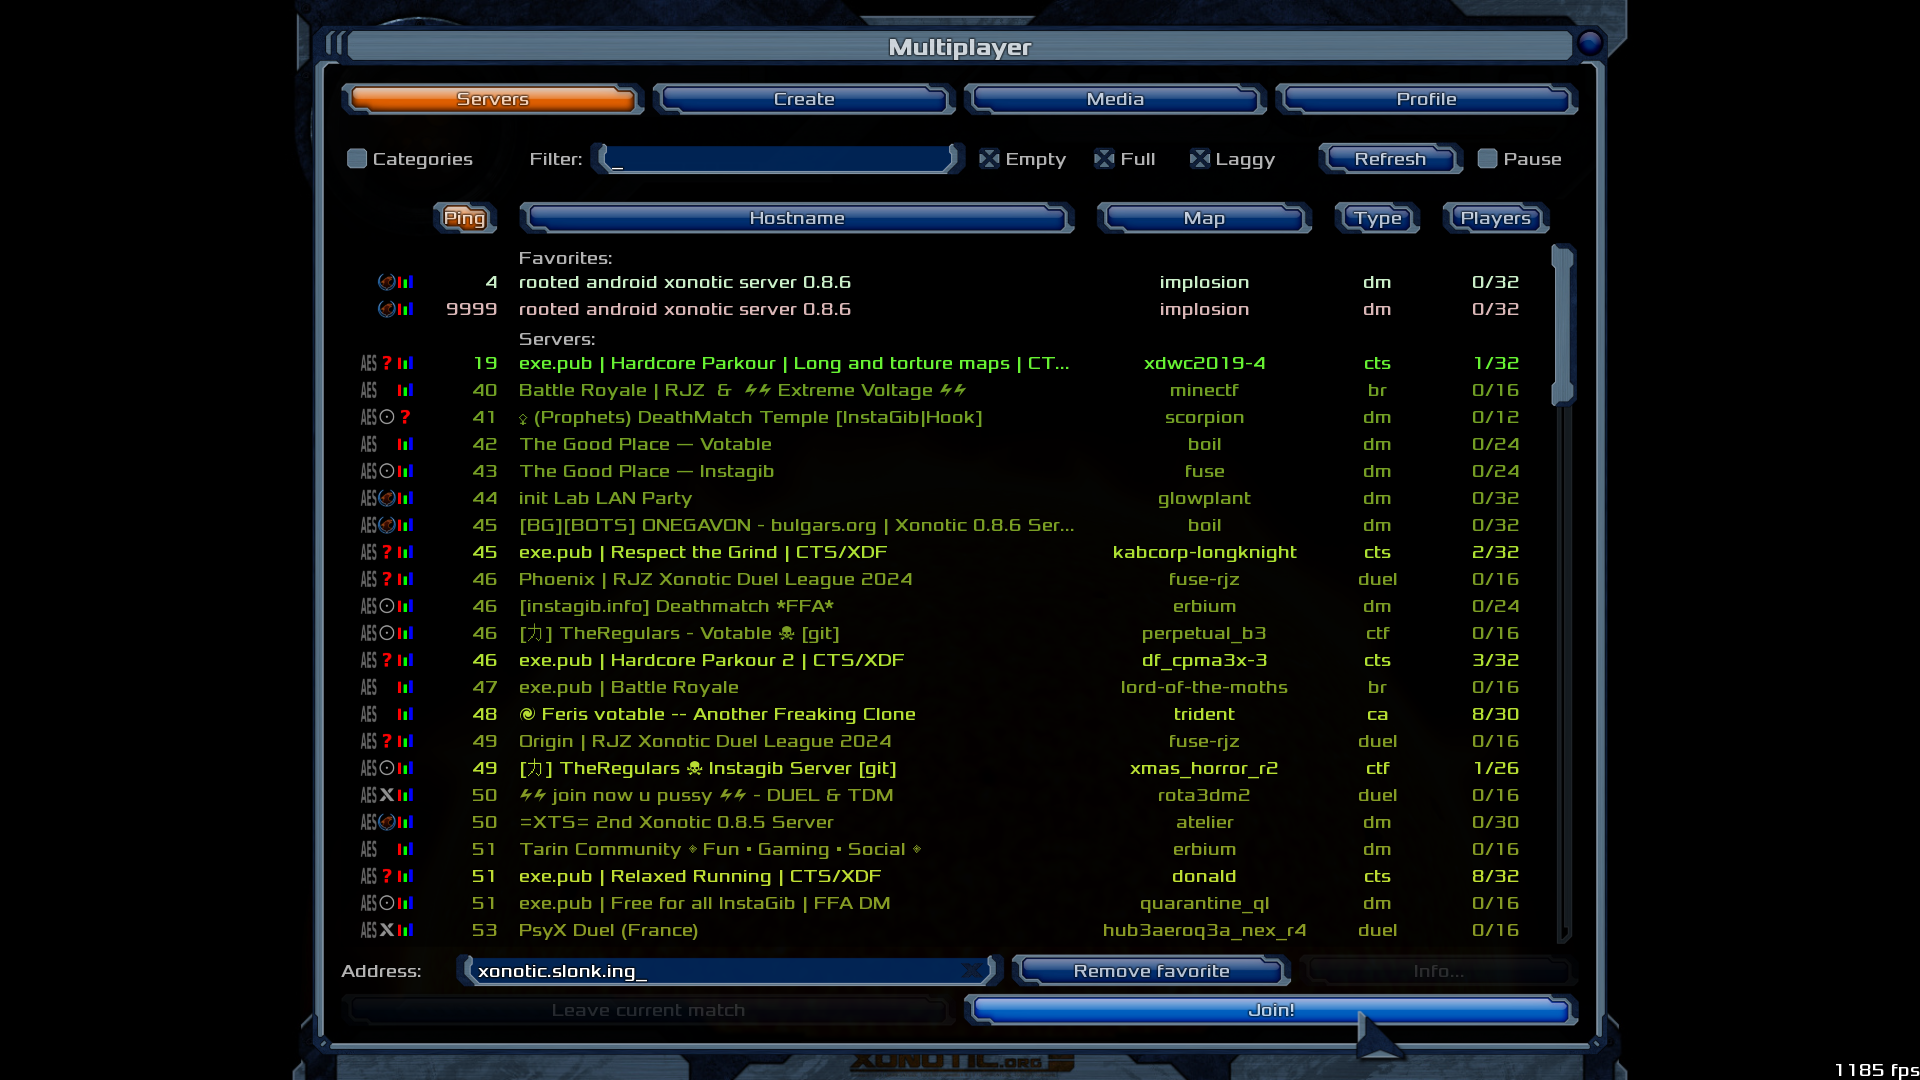
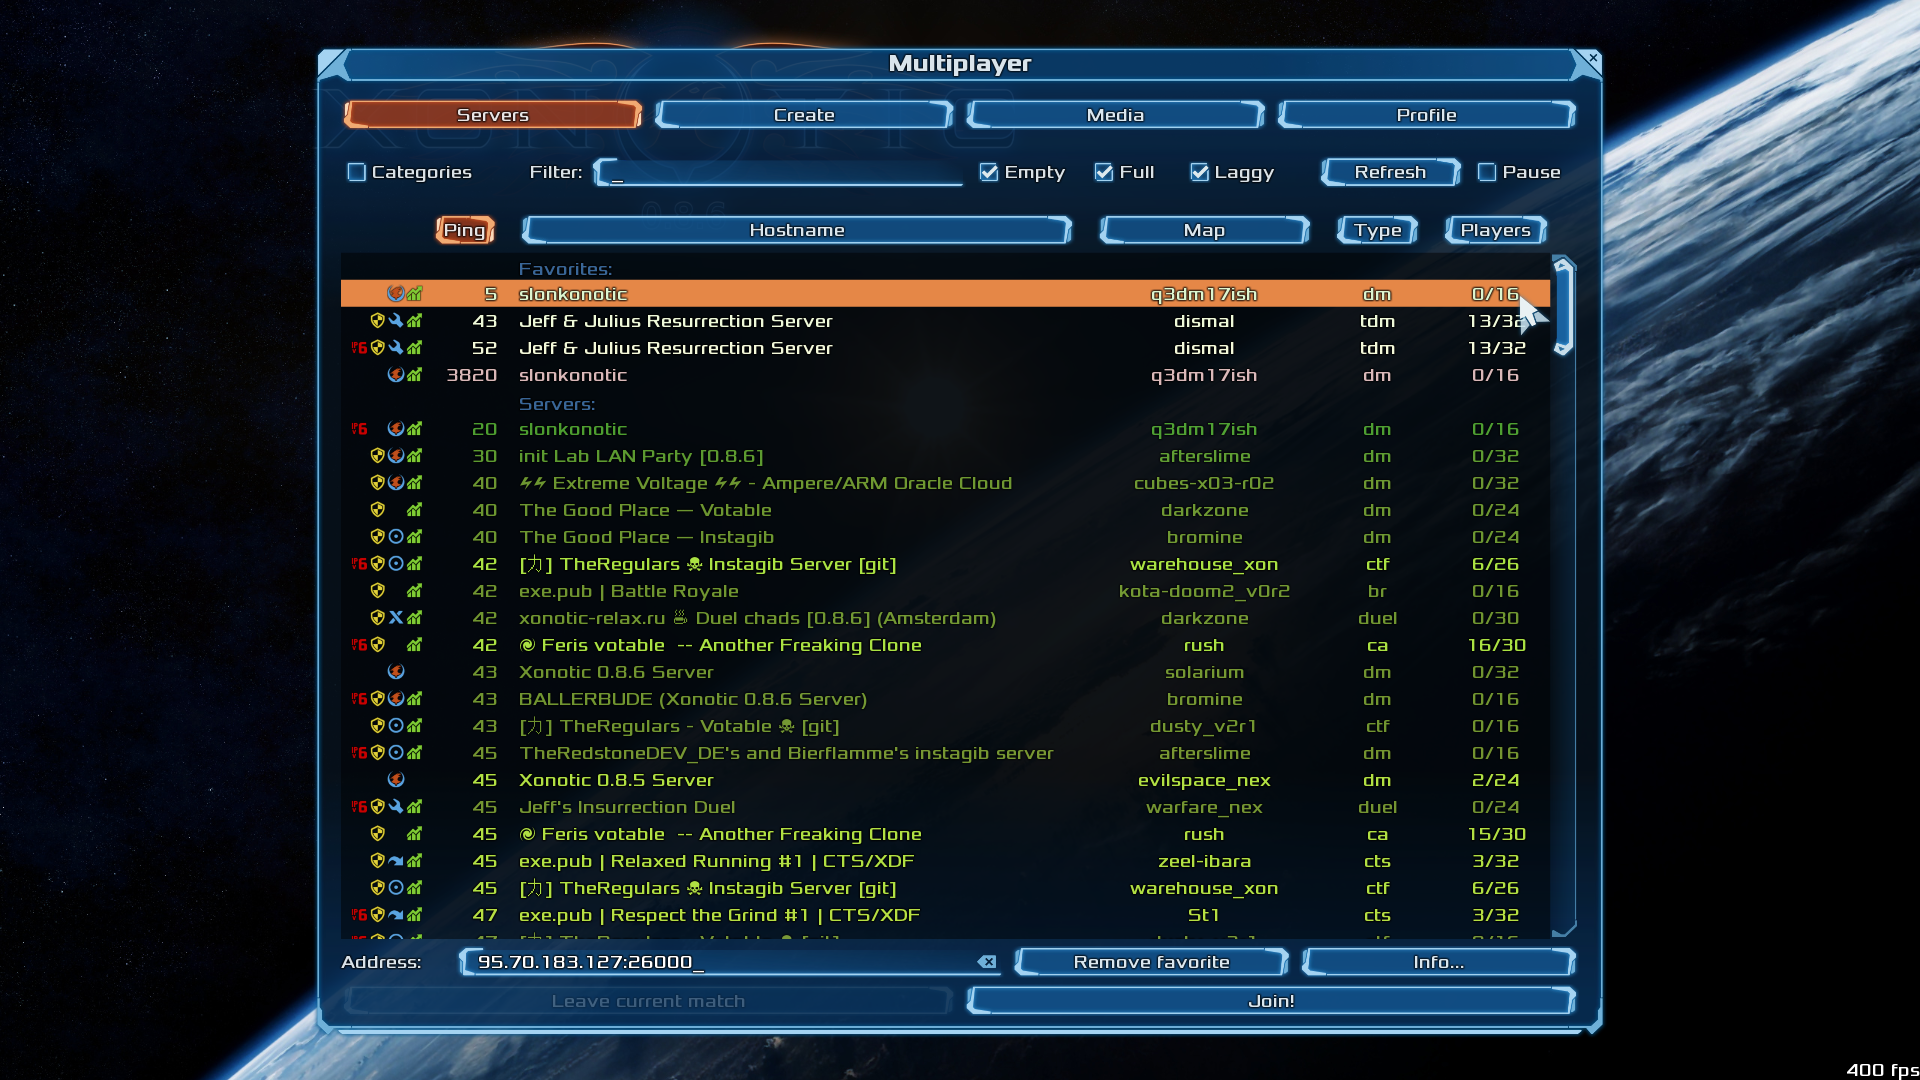
update xon

diff --git a/xonotic.html b/xonotic.html
@@ -1,4 +1,4 @@
-<!doctype html>
+<!DOCTYPE html>
 <html lang="en">
 	<head>
 		<meta charset="UTF-8" />
@@ -20,13 +20,37 @@
 			</marquee>
 			<h1>xonotic server</h1>
 			<p><a href="/">back to home</a></p>
+
 			<p>
-				i host a xonotic server on the same <a href="https://is.slonk.ing/notice/Ad6bptg7T7I50tJps8">phone</a> i host this website and the akkoma
-				instance on. after downloading the game, you can join the server by typing "xonotic.slonk.ing" into the address bar above the join button in the
-				multiplayer menu
+				can't find a good xonotic server without more mods than gregtech nowadays so i
+				elected to host my own.<br />
+				the ip is <code>xonotic.slonk.ing</code> or <code>95.70.183.127</code>, and the
+				custom content can be accessed
+				<a href="https://xonotic.slonk.ing/dl/" target="_blank">here</a>.
 			</p>
-			<img src="img/xonotic.png" alt="screenshot of xonotic's multiplayer menu showing 'xonotic.slonk.ing' in the address bar" style="width: 100%" />
-			<p><b>update</b>: server died, maybe expect a regular xon server in the future</p>
+			<img
+				src="img/xonotic.png"
+				alt="screenshot of xonotic's multiplayer menu showing the server selected"
+				style="width: 100%"
+			/>
+			<br />
+
+			<details>
+				<summary>rooted android xonotic history</summary>
+				<p>
+					i host a xonotic server on the same
+					<a href="https://is.slonk.ing/notice/Ad6bptg7T7I50tJps8">phone</a> i host this
+					website and the akkoma instance on. after downloading the game, you can join the
+					server by typing "xonotic.slonk.ing" into the address bar above the join button
+					in the multiplayer menu
+				</p>
+				<img
+					src="img/ra-xonotic.png"
+					alt="screenshot of xonotic's multiplayer menu showing 'xonotic.slonk.ing' in the address bar"
+					style="width: 100%"
+				/>
+				<p><b>update</b>: server died, maybe expect a regular xon server in the future</p>
+			</details>
 		</main>
 
 		<footer>&#9398; copyfuck 1337 slonkazoid</footer>

diff --git a/index.html b/index.html
@@ -420,10 +420,10 @@
 					<li>
 						<a href="https://is.slonk.ing/">akkoma instance</a>
 					</li>
+					-->
 					<li>
 						<a href="xonotic.html">xonotic server</a>
 					</li>
-					-->
 					<li>
 						<a href="projects.html">projects</a>
 					</li>
